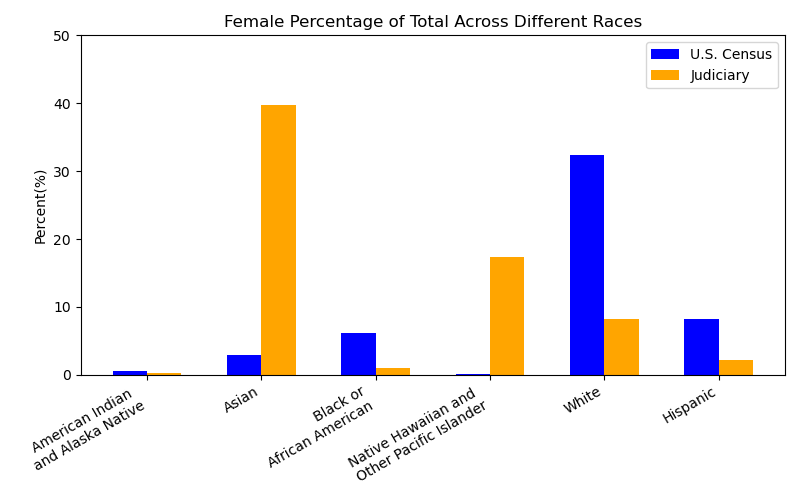
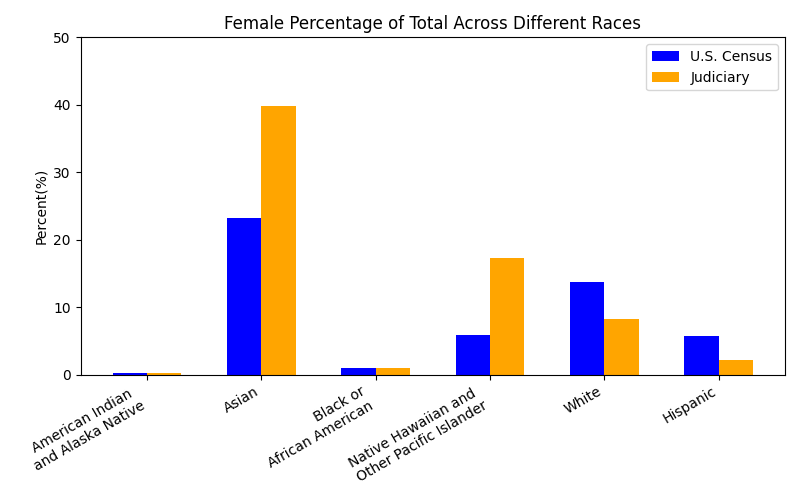
Add files via upload

diff --git a/reports/EEO/tables.html b/reports/EEO/tables.html
@@ -1,14 +1,19 @@
-<html><body><h1>U.S. Census and Hawaii State Judiciary Demographics Comparisons</h1>
+<html><body><h1>Hawaii State Census and Judiciary Demographics Comparison</h1>
 
+<div style="margin:30;">
+<strong>Data sources</strong><br>
+<a href="https://www2.census.gov/programs-surveys/popest/tables/2020-2023/state/asrh/sc-est2023-sr11h-15.xlsx">Hawaii State Census data: 2023 US Census Population Estimates</a><br>
+Hawaii State Judiciary data: 2023 Judiciary EEO data
+</div>
 
 <div style="width:800px; height:500px; float:left; margin: 0 60 60;"><img style="object-fit:cover; width:800px; height:500px" src="malechart.png">
 </div>
   <div style="width:800px; height:500px; float:right; margin: 0 60 60;"><img style="object-fit:cover; width:800px; height:500px" src="femalechart.png">
 </div>
-</div>
+
 <div style="clear: both;">
 
-<p>U.S. Census Ethnicity x Gender Breakdown</p>
+<p>Hawaii State Census Ethnicity x Gender Breakdown</p>
 <table border="1" class="dataframe">
 <thead>
 <tr style="text-align: right;">
@@ -26,71 +31,71 @@
 <tr>
 <th>0</th>
 <td>American Indian and Alaska Native</td>
-<td>2265334</td>
-<td>0.58%</td>
-<td>2221083</td>
-<td>0.57%</td>
-<td>4486417</td>
-<td>1.15%</td>
+<td>3039</td>
+<td>0.25%</td>
+<td>2600</td>
+<td>0.21%</td>
+<td>5639</td>
+<td>0.46%</td>
 </tr>
 <tr>
 <th>1</th>
 <td>Asian</td>
-<td>10289070</td>
-<td>2.64%</td>
-<td>11097844</td>
-<td>2.85%</td>
-<td>21386914</td>
-<td>5.49%</td>
+<td>249881</td>
+<td>20.36%</td>
+<td>285895</td>
+<td>23.3%</td>
+<td>535776</td>
+<td>43.66%</td>
 </tr>
 <tr>
 <th>2</th>
 <td>Black or African American</td>
-<td>22001207</td>
-<td>5.64%</td>
-<td>23756226</td>
-<td>6.09%</td>
-<td>45757433</td>
-<td>11.73%</td>
+<td>19123</td>
+<td>1.56%</td>
+<td>12275</td>
+<td>1.0%</td>
+<td>31398</td>
+<td>2.56%</td>
 </tr>
 <tr>
 <th>3</th>
 <td>Native Hawaiian and Other Pacific Islander</td>
-<td>456265</td>
-<td>0.12%</td>
-<td>443550</td>
-<td>0.11%</td>
-<td>899815</td>
-<td>0.23%</td>
+<td>75372</td>
+<td>6.14%</td>
+<td>72380</td>
+<td>5.9%</td>
+<td>147752</td>
+<td>12.04%</td>
 </tr>
 <tr>
 <th>4</th>
 <td>White</td>
-<td>125606290</td>
-<td>32.22%</td>
-<td>126459414</td>
-<td>32.44%</td>
-<td>252065704</td>
-<td>64.66%</td>
+<td>192757</td>
+<td>15.71%</td>
+<td>168758</td>
+<td>13.75%</td>
+<td>361515</td>
+<td>29.46%</td>
 </tr>
 <tr>
 <th>5</th>
 <td>Hispanic</td>
-<td>32974931</td>
-<td>8.46%</td>
-<td>32244214</td>
-<td>8.27%</td>
-<td>65219145</td>
-<td>16.73%</td>
+<td>74135</td>
+<td>6.04%</td>
+<td>70976</td>
+<td>5.78%</td>
+<td>145111</td>
+<td>11.82%</td>
 </tr>
 <tr>
 <th>6</th>
 <td>Total Per Gender</td>
-<td>193593097</td>
-<td>49.66%</td>
-<td>196222331</td>
-<td>50.34%</td>
-<td>389815428</td>
+<td>614307</td>
+<td>50.06%</td>
+<td>612884</td>
+<td>49.94%</td>
+<td>1227191</td>
 <td>100.00%</td>
 </tr>
 </tbody>
@@ -181,7 +186,6 @@
 <td>1489</td>
 <td>100.00%</td>
 </tr>
-
 </tbody>
 </table></body></html>
 
